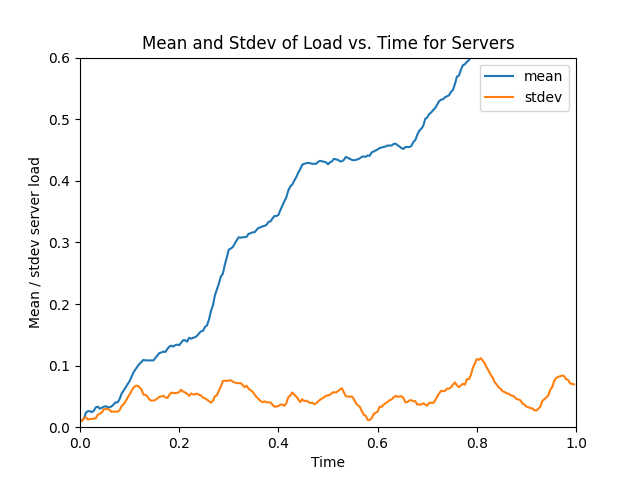
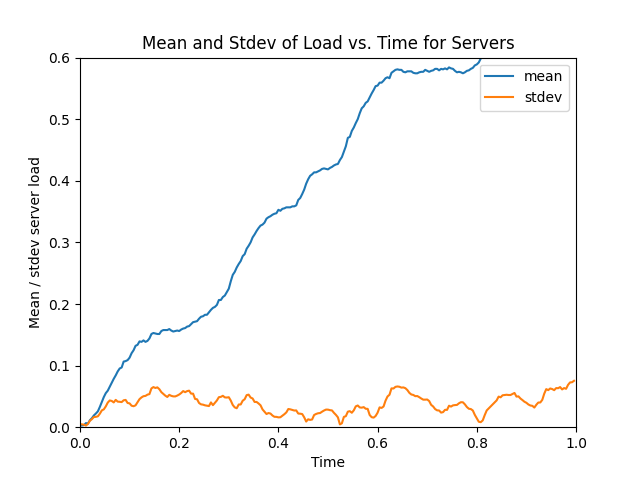
Latest Changes of Heaps

diff --git a/main_v2.py b/main_v2.py
@@ -18,7 +18,7 @@ print(weights)
 curr_weights = deepcopy(weights)
 next_weight_server = 0
 # Server processing time, time per packet
-processing_time = 0.004
+# processing_time = 0.004
 
 #value for powers of x choices
 powers_of_x_value = 3
@@ -29,6 +29,7 @@ heapq.heapify(heap)
 LOAD_BALANCER_DROPS = False
 assignment_methods = ["RandomAssignment", "ConsistentHashing", "PowersOfTwoNoMemory", "PowersOfTwoWithMemory", 
 "PowersOfXWithMemory", "RoundRobin", "WeightedRoundRobin", "Heaps"]
+assignment_methods = ["Heaps"]
 powers_of_x = [2, 4, 8]
 
 #class defining a client/host
@@ -160,10 +161,9 @@ class Server:
 			if TTF > 0:
 				TTF -= (packet_i.time_sent - t)
 				if TTF < 0:
-					# That means it processed, no waiting in the queue, so this is a processed request
-					#count += 1, final time & capture the throughput
+					#print("made zerooooooo")
 					TTF = 0
-			TTF += processing_time
+			TTF += packet_i.processing_time
 			t = packet_i.time_sent
 			i += 1
 		TTF -= (current_time - t)
@@ -184,6 +184,7 @@ class Packet:
 		self.clientid = clientid
 		self.port_num = port_number
 		self.time_sent = time_sent
+		self.processing_time = random.uniform(0.001, 0.1)
 
 	def __repr__(self):
 		return "Packet from client: " + str(self.clientid) + "at port: " + str(self.port_num) +  " @time: " + str(round(self.time_sent,3))
@@ -205,6 +206,7 @@ def run_load_plotter(servers, assignment_method):
 		plt.xlabel('Time')
 		plt.ylabel('Load (Time til finish)')
 		plt.title('Load vs. Time for Servers')
+		#plt.axis([0, 1, 0, 0.6])
 
 	plt.savefig('plots/SmallSystemWithFlows/' + assignment_method + '/LoadVsTimeForServers.png')
 	plt.clf()
@@ -245,6 +247,7 @@ def run_consistency_check(servers):
 			if server.id != otherServer.id:
 				for packet in server.packet_history:
 					if (packet.clientid, packet.port_num) in [(pckt.clientid, pckt.port_num) for pckt in otherServer.packet_history]:
+						#print(packet.clientid, " and ", packet.port_num)
 						perFlowConsistent = False
 						break
 
@@ -283,7 +286,6 @@ def run_simulation(assignment_method):
 		server = Server(i)
 		servers.append(server)
 
-	#current_time = 0
 	# Main Simulation Processing Loop
 	for i in range(len(packets)):
 		packet = packets[i]
@@ -299,7 +301,7 @@ def run_simulation(assignment_method):
 		load_balancer = load_balancers[lb_id]
 		if assignment_method == "Heaps":
 			current_workload, current_worker = heapq.heappop(heap)
-			new_workload = current_workload + processing_time
+			new_workload = current_workload + packet.processing_time
 			heapq.heappush(heap, (new_workload, current_worker))
 			server = servers[current_worker]
 			server.add_packet(packet)
@@ -318,7 +320,6 @@ def run_simulation(assignment_method):
 
 			server = servers[server_id]
 			server.add_packet(packet)
-		#current_time += processing_time
 		
 
 	run_load_plotter(servers, assignment_method)

diff --git a/heaps.py b/heaps.py
@@ -1,0 +1,3 @@
+import random
+import matplotlib.pyplot as plt
+import numpy as np
